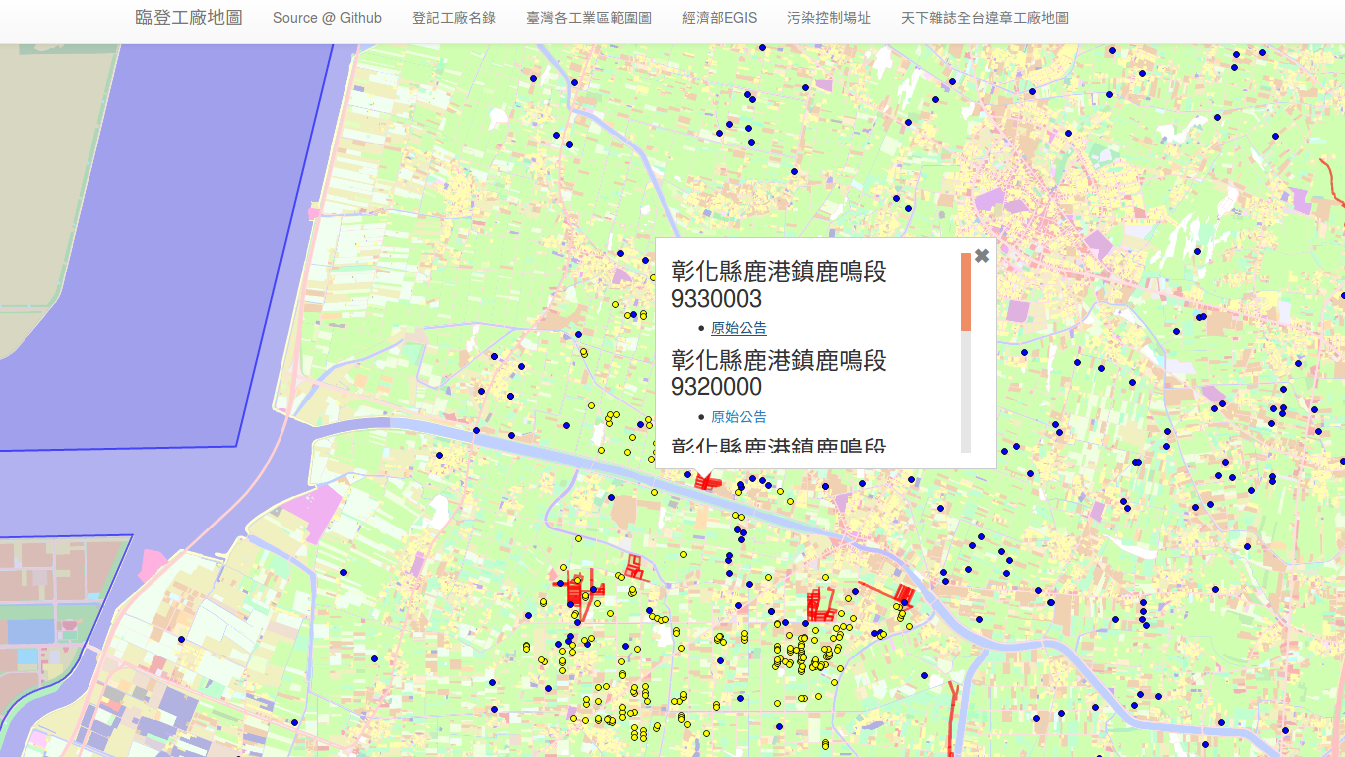
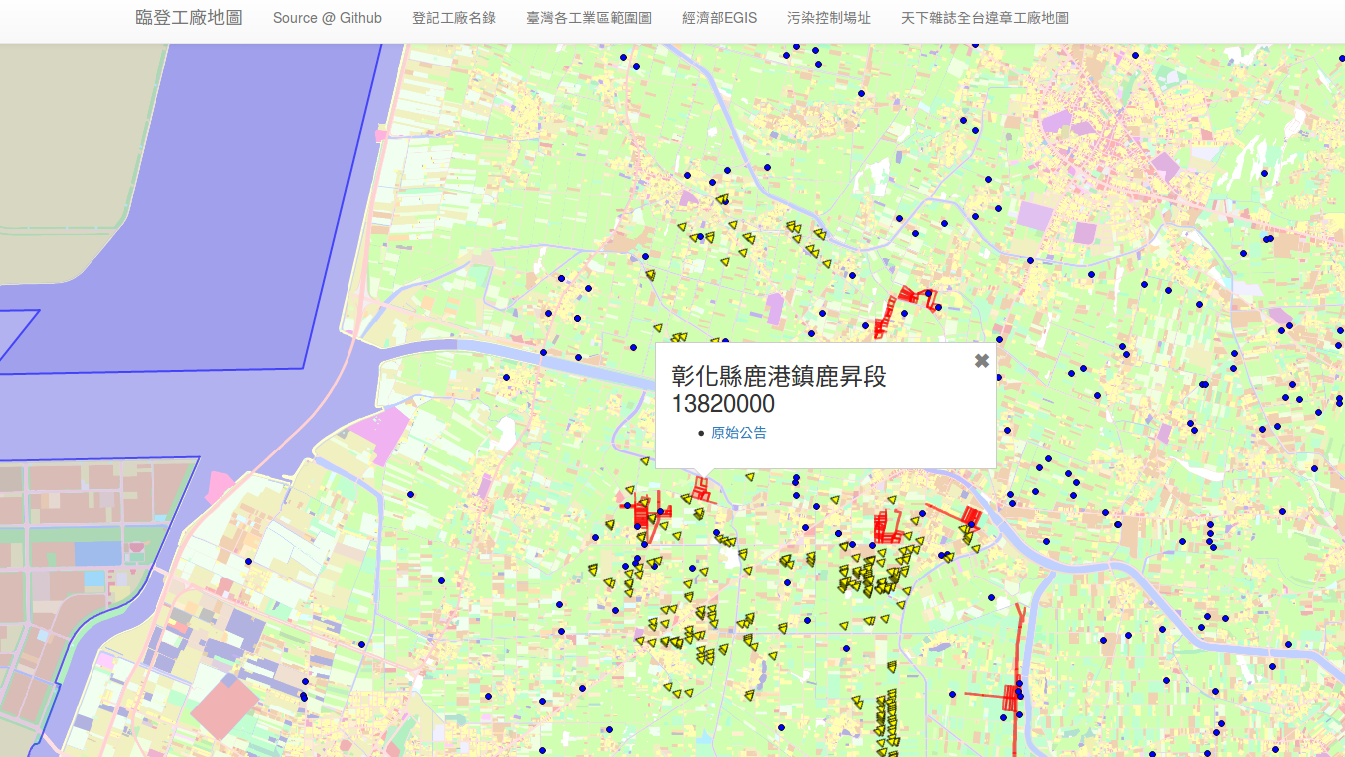
use triangle in sgwc layer points

diff --git a/main.js b/main.js
@@ -87,8 +87,11 @@ var sgwcLayer = new ol.layer.Vector({
         format: new ol.format.GeoJSON()
     }),
     style: new ol.style.Style({
-        image: new ol.style.Circle({
-            radius: 3,
+        image: new ol.style.RegularShape({
+            radius: 5,
+            points: 3,
+            rotation: Math.PI / 4,
+            angle: 0,
             fill: new ol.style.Fill({
                 color: 'yellow'
             }),
